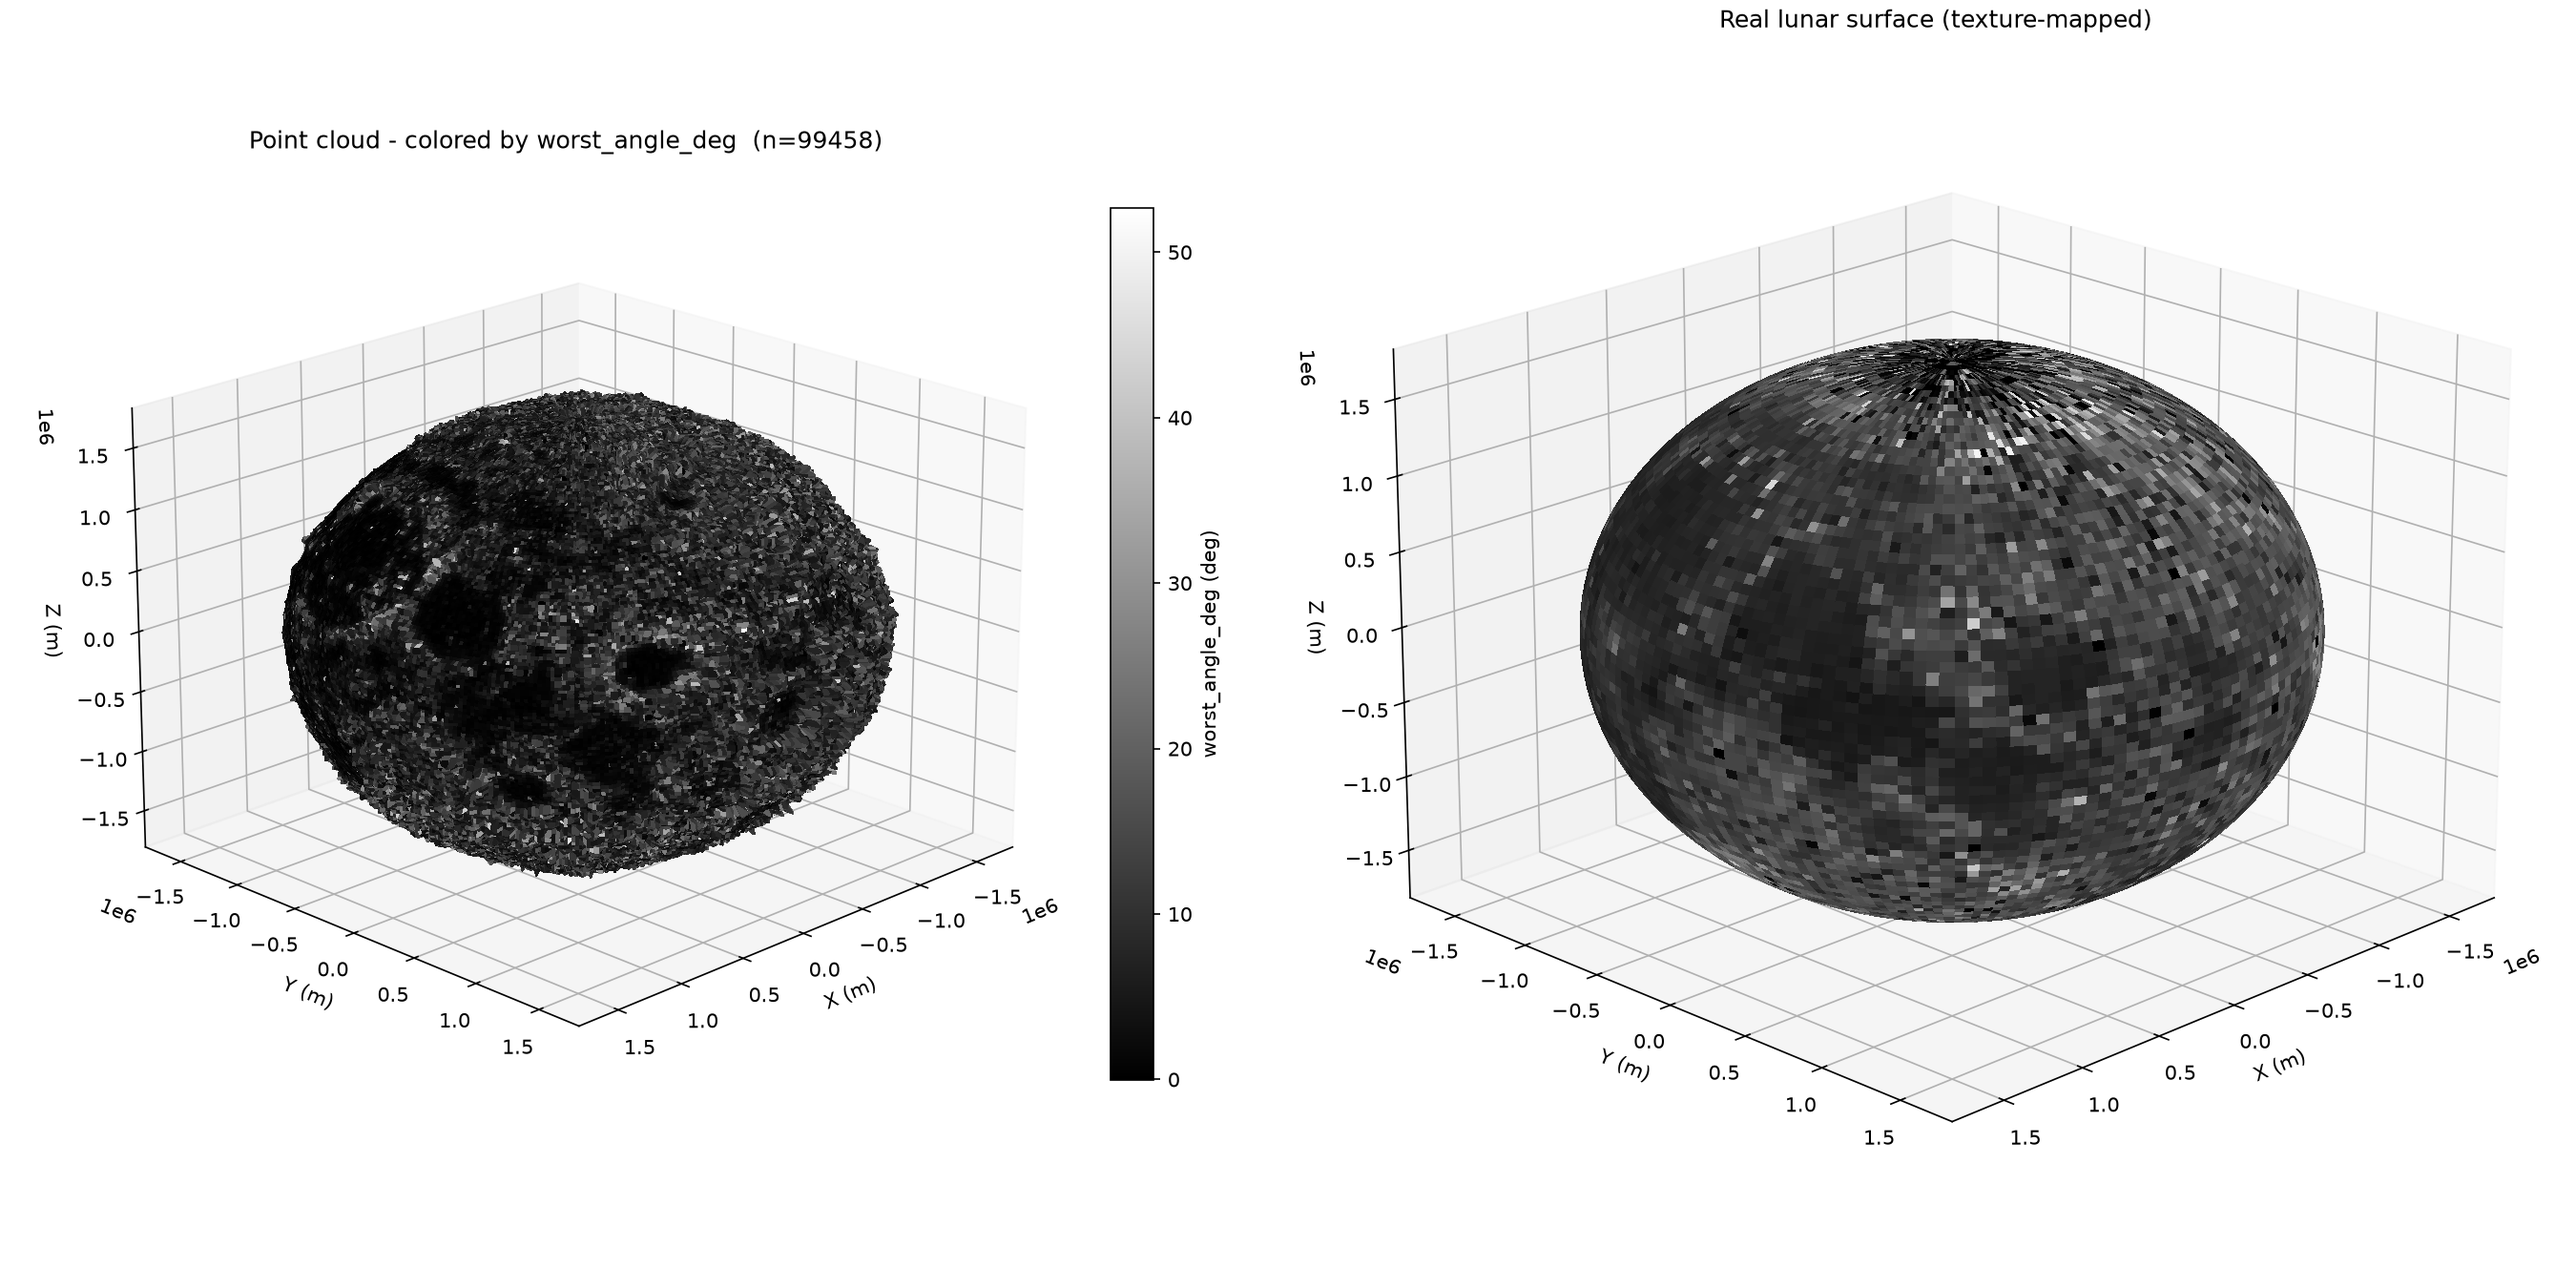
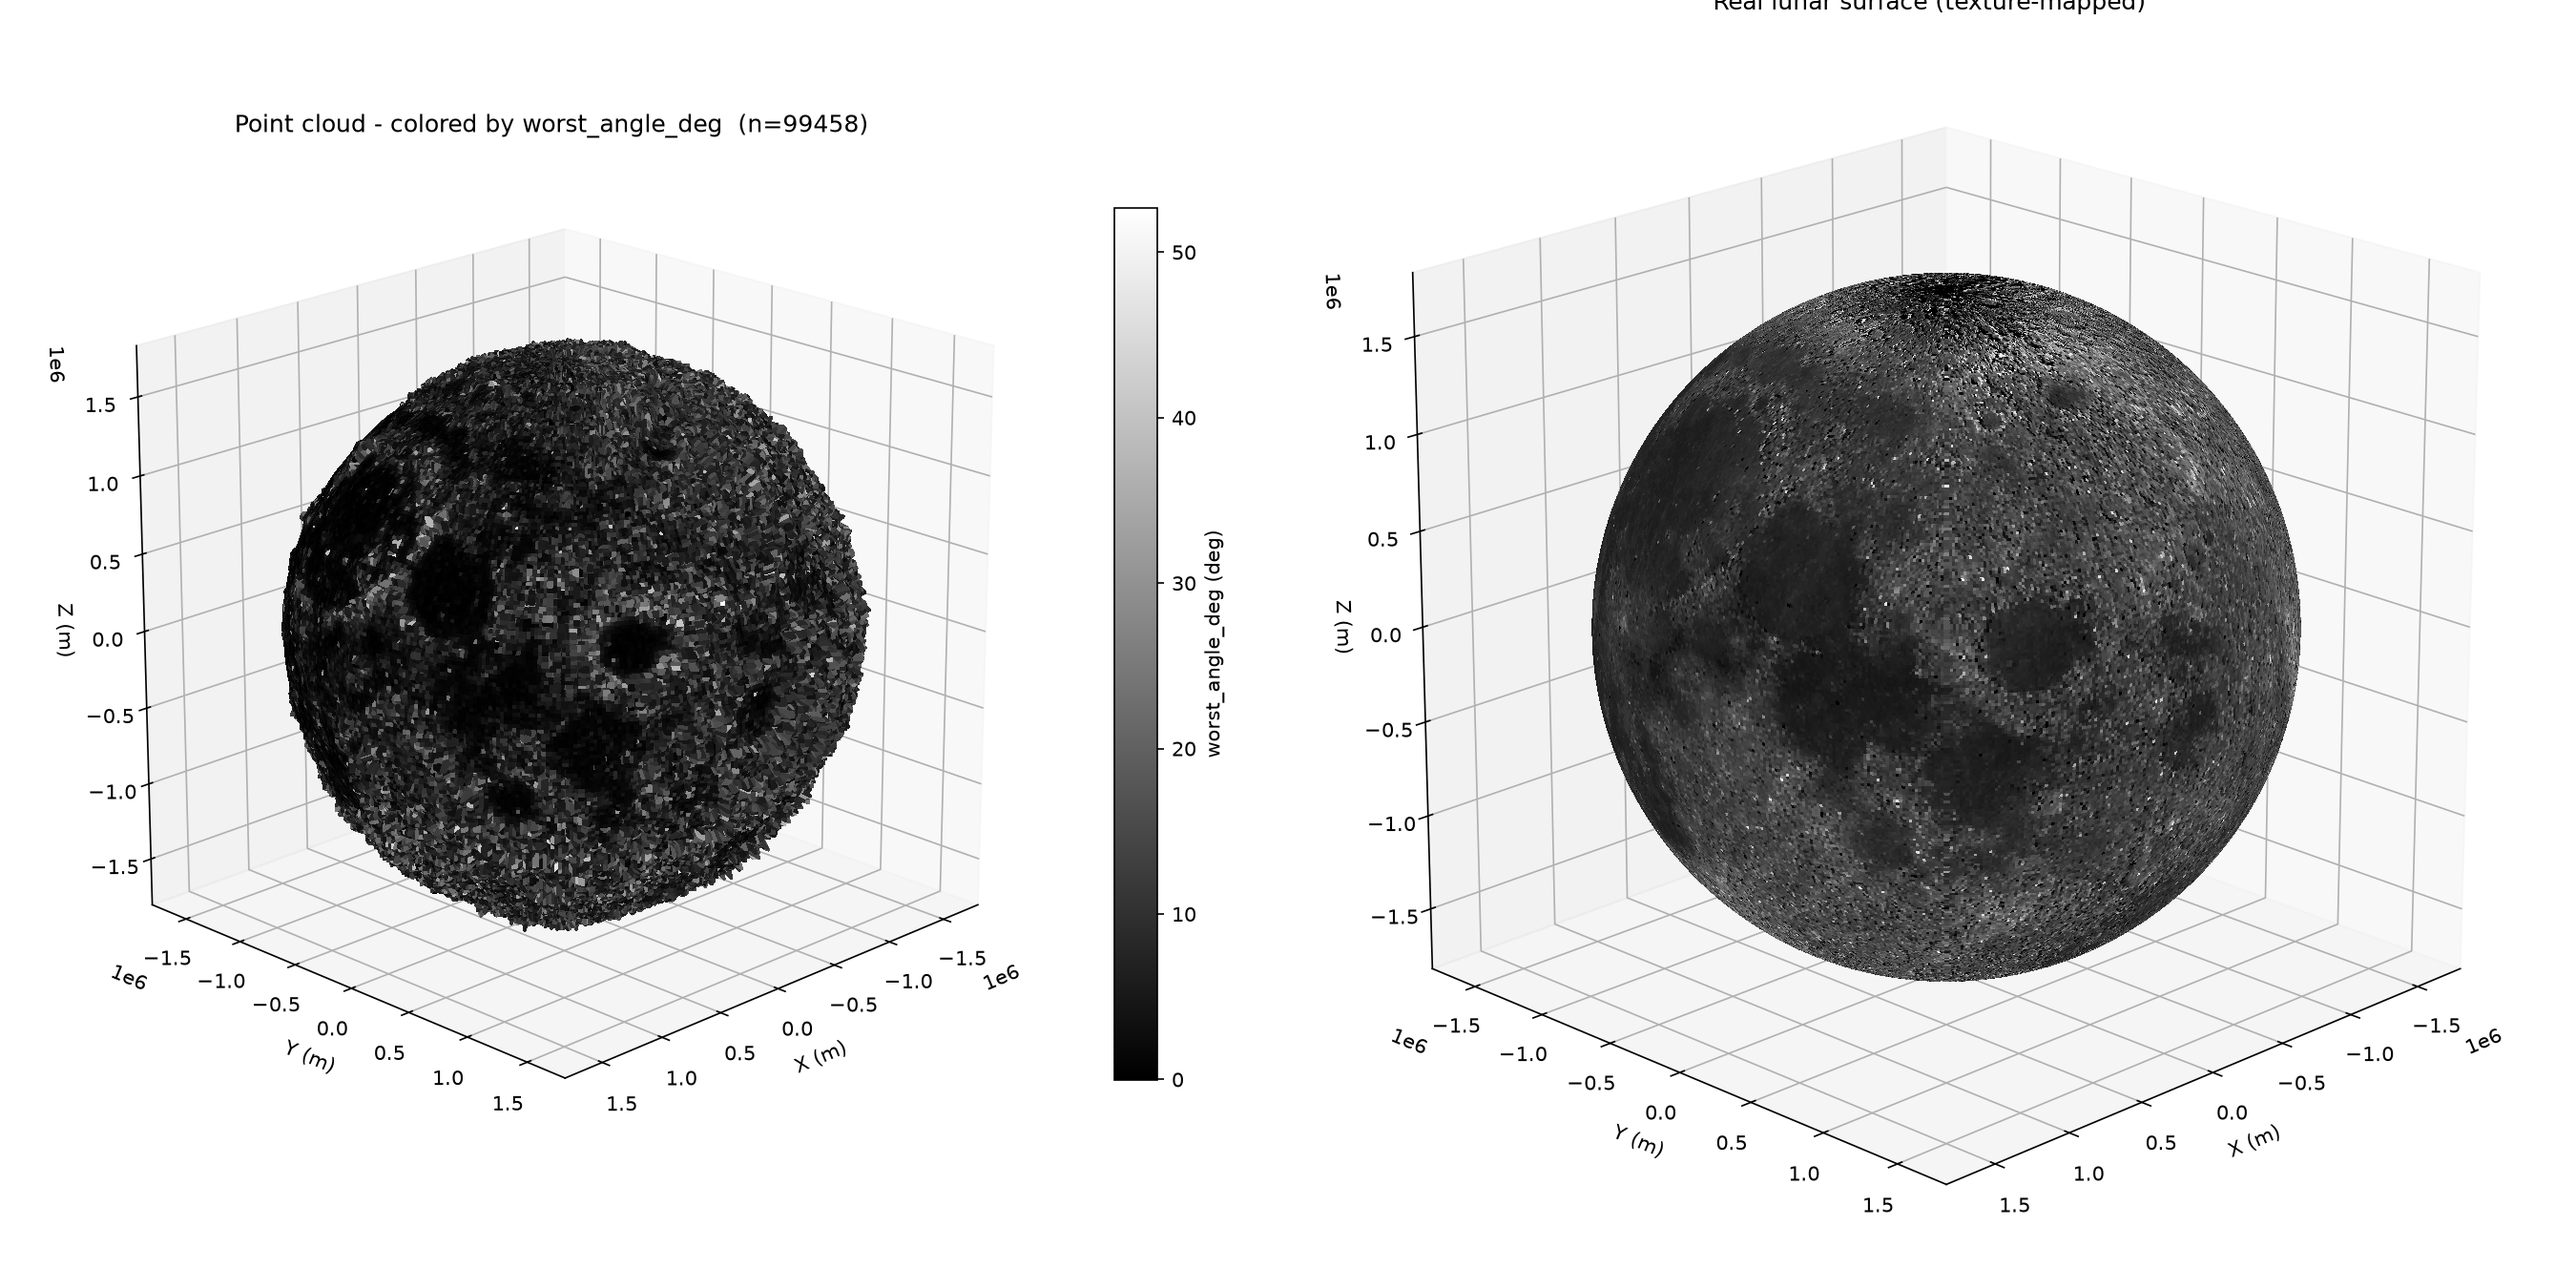
with changes to plotting

diff --git a/plot_3d_point_cloud.py b/plot_3d_point_cloud.py
@@ -50,7 +50,17 @@ import numpy as np
 import pandas as pd
 import matplotlib.pyplot as plt
 import matplotlib.image as mpimg
+from PIL import Image
 from mpl_toolkits.mplot3d import Axes3D  # noqa: F401 - needed to register 3D projection
+
+# matplotlib's imread() uses Pillow under the hood, which by default refuses
+# to open very large images as a generic anti-DoS "decompression bomb"
+# safeguard - this is a blanket pixel-count check, not specific to any
+# actual problem with a file. Legitimate high-resolution lunar mosaics
+# (e.g. the 64 ppd WAC global tile) can exceed Pillow's default limit
+# despite being completely normal, known-source scientific data, so raise
+# it here rather than fighting the check on every larger basemap image.
+Image.MAX_IMAGE_PIXELS = None
 
 R_MOON_M = 1737400.0  # LOLA datum radius, meters - same constant used elsewhere in this project
 
@@ -117,7 +127,7 @@ def build_data_surface(df, color_column, exaggeration=1.0):
     return x, y, z, val_grid
 
 
-def build_textured_sphere(basemap_path, n_lat=90, n_lon=180, extent=None):
+def build_textured_sphere(basemap_path, n_lat=180, n_lon=360, extent=None):
     """
     Build a smooth sphere mesh (constant radius R_MOON_M) with facecolors
     sampled from a real lunar surface image, for side-by-side visual
@@ -217,6 +227,13 @@ def main():
                          help="Render the data as a continuous colored surface "
                               "(reconstructed from row/col grid indices) instead "
                               "of scattered points with gaps between them")
+    parser.add_argument("--basemap_mesh_res", type=int, nargs=2, default=(180, 360),
+                         metavar=("N_LAT", "N_LON"),
+                         help="Mesh resolution (n_lat, n_lon) for the basemap sphere "
+                              "(default 180 360). This controls how much of your "
+                              "source image's detail actually gets rendered - "
+                              "raise it to use more of a high-res basemap, at the "
+                              "cost of a slower plot_surface call.")
 
     args = parser.parse_args()
 
@@ -277,10 +294,14 @@ def main():
     ax_points.set_xlim(mid_x - max_range, mid_x + max_range)
     ax_points.set_ylim(mid_y - max_range, mid_y + max_range)
     ax_points.set_zlim(mid_z - max_range, mid_z + max_range)
+    ax_points.set_box_aspect((1, 1, 1))  # force a true cube - equal xlim/ylim/zlim alone isn't enough
     ax_points.view_init(elev=args.elev, azim=args.azim)
 
     if args.basemap:
-        mx, my, mz, facecolors = build_textured_sphere(args.basemap, extent=args.extent)
+        mx, my, mz, facecolors = build_textured_sphere(
+            args.basemap, n_lat=args.basemap_mesh_res[0], n_lon=args.basemap_mesh_res[1],
+            extent=args.extent,
+        )
         ax_moon.plot_surface(
             mx, my, mz, facecolors=facecolors, rstride=1, cstride=1,
             shade=False, antialiased=False,
@@ -293,6 +314,7 @@ def main():
         ax_moon.set_xlim(-moon_range, moon_range)
         ax_moon.set_ylim(-moon_range, moon_range)
         ax_moon.set_zlim(-moon_range, moon_range)
+        ax_moon.set_box_aspect((1, 1, 1))
         ax_moon.view_init(elev=args.elev, azim=args.azim)
 
         sync_3d_views(fig, [ax_points, ax_moon])
